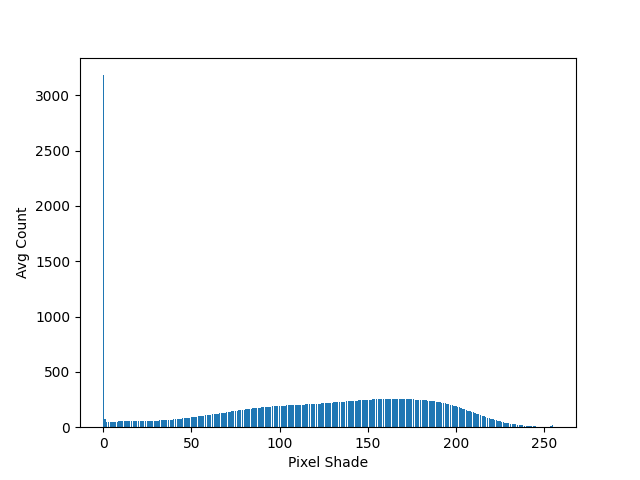
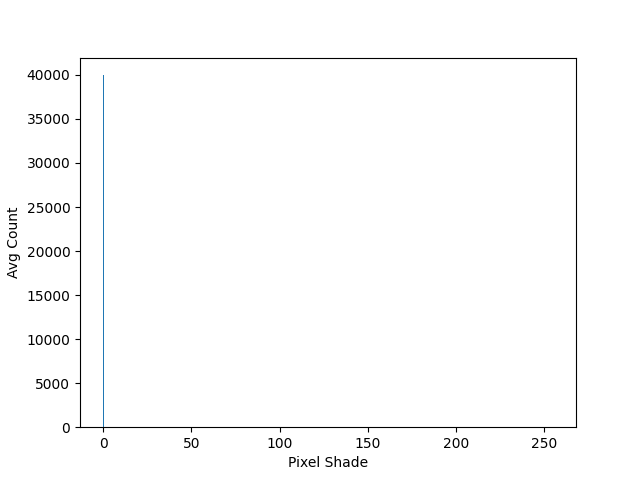
Added multinomiallabels

diff --git a/exploratory_analysis.py b/exploratory_analysis.py
@@ -97,27 +97,36 @@ def transform_data(whichSet):
         
         xpos = np.empty((PIXELS_RESIZE, PIXELS_RESIZE))
         ypos = np.empty((PIXELS_RESIZE, PIXELS_RESIZE))
-        for x in range(PIXELS_RESIZE):
-            for y in range(PIXELS_RESIZE):
-                xpos[x,y] = x*(imgr[x,y]/255)
-                ypos[x,y] = y*(imgr[x,y]/255)
-        
         x2ypos = np.empty((PIXELS_RESIZE, PIXELS_RESIZE))
         xy2pos = np.empty((PIXELS_RESIZE, PIXELS_RESIZE))
         for x in range(PIXELS_RESIZE):
             for y in range(PIXELS_RESIZE):
+                xpos[x,y] = x*(imgr[x,y]/255)
+                ypos[x,y] = y*(imgr[x,y]/255)
                 x2ypos[x,y] = (x*x)*y*(imgr[x,y]/255)
                 xy2pos[x,y] = x*(y*y)*(imgr[x,y]/255)
-
+                
+        allLabel = ''
+        if row['Label'] == 'Normal':
+            allLabel = 'Healthy'
+        elif row['Label_1_Virus_category'] == 'bacteria':
+            allLabel = 'Bacteria'
+        elif row['Label_2_Virus_category'] == 'COVID-19':
+            allLabel = 'COVID-19'
+        else:
+            allLabel = 'Other Virus'
+        
+        
         numMedian = 0
         if medianPixel in pixelCounts.keys():
             numMedian = pixelCounts[medianPixel]
 
         df_transform = df_transform.append({
-            'img': imgr,
+            'img': np.round(imgr/255,4),
             'label1': row['Label'],
             'label2': row['Label_1_Virus_category'],
             'label3': row['Label_2_Virus_category'],
+            'label4': allLabel,
             'shadeAvg': np.mean(imgr),
             'shadeVar': np.var(imgr),
             'lightestShade': np.max(imgr),
@@ -135,8 +144,8 @@ def transform_data(whichSet):
             'x2bar': np.var(xpos),
             'ybar': np.mean(ypos),
             'y2bar': np.var(ypos),
-            'x2ybr': np.sum(x2ypos),
-            'xy2br': np.sum(xy2pos)
+            'x2ybr': np.mean(x2ypos),
+            'xy2br': np.mean(xy2pos)
         }, ignore_index = True)
     print('Finished creating ' + whichSet + ' set')
     return df_transform
@@ -192,7 +201,7 @@ plt.clf()
 print('Creating boxplots...')
 # for every explanatory variable, create boxplot
 for col in train.columns:
-    if col not in ('img', 'label1', 'label2', 'label3'):
+    if col not in ('img', 'label1', 'label2', 'label3', 'label4'):
         boxplot = train.boxplot(by = 'label1', column = [col], grid = False)
         plt.title(col)
         plt.suptitle("")
